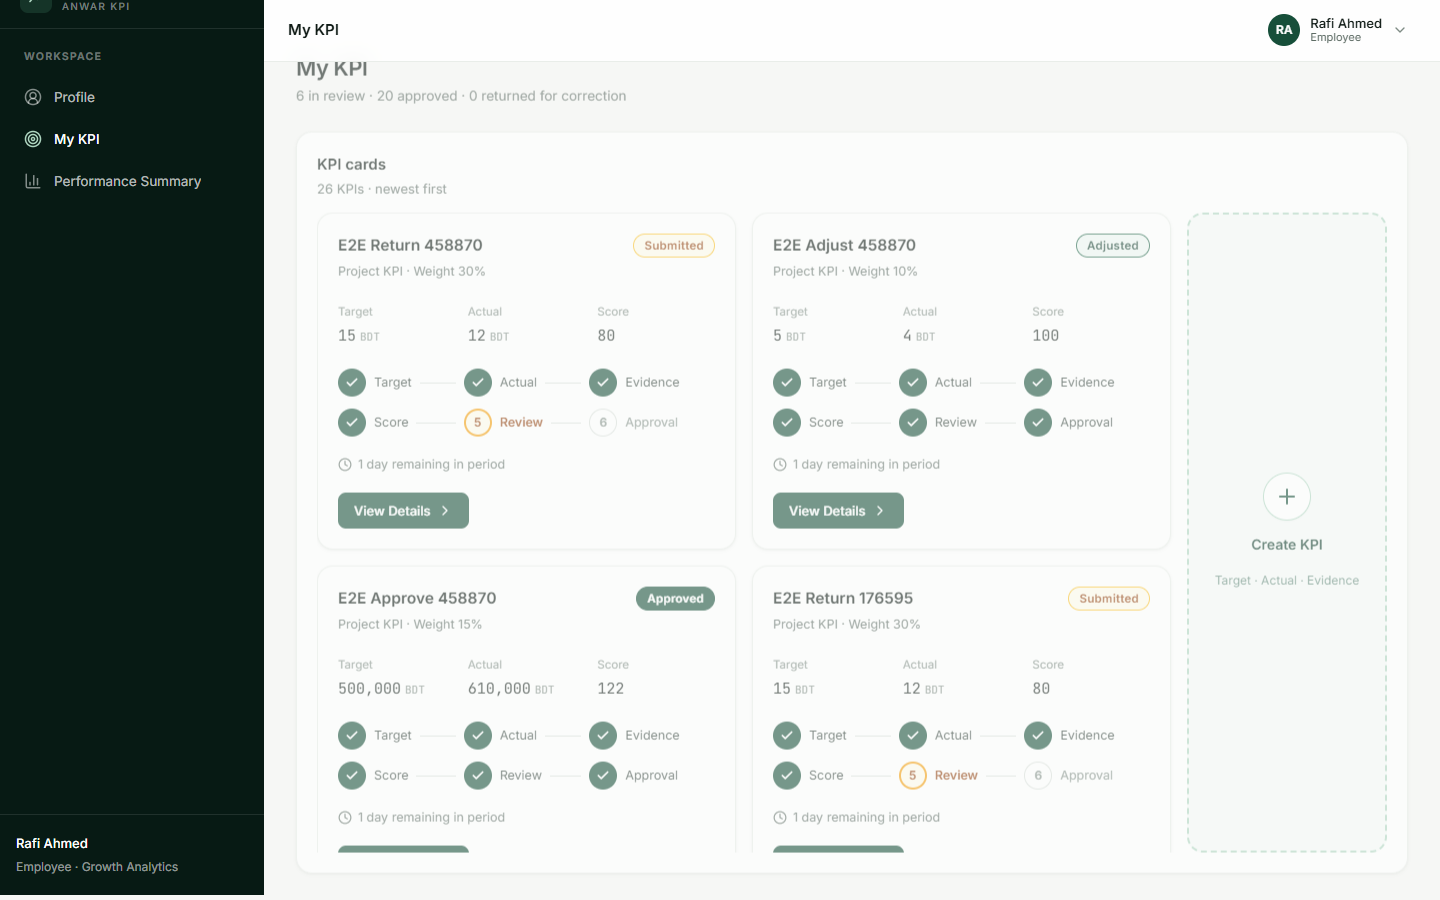
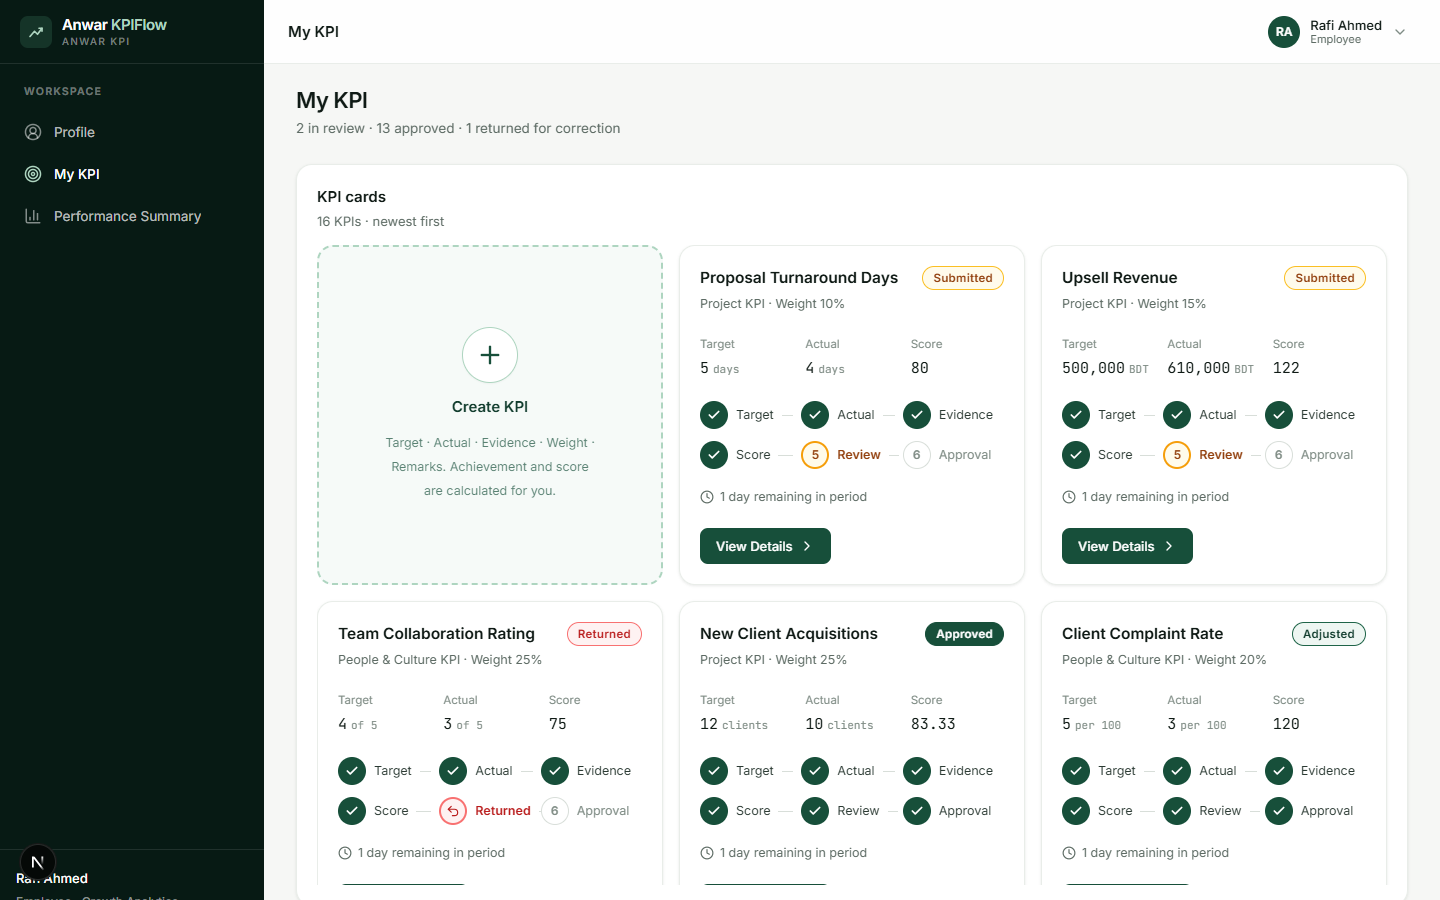
My KPI: place the Create KPI (+) tile first in the card grid with matching card dimensions

diff --git a/anwar-kpiflow/src/components/kpi/my-kpi-board.tsx b/anwar-kpiflow/src/components/kpi/my-kpi-board.tsx
@@ -1,14 +1,17 @@
 "use client";
 
 import * as React from "react";
-import { Plus, Target } from "lucide-react";
+import { Plus } from "lucide-react";
 import { KpiCard, type KpiCardData } from "./kpi-card";
 import { KpiFormDrawer } from "./kpi-form";
-import { EmptyState } from "@/components/ui/card";
 
 type Approver = { id: string; fullName: string; designation: string | null };
 
-/** FR-KPI-01/09/10/11 — parent card with the Create KPI (+) tile fixed on the right and a scrolling card grid. */
+/**
+ * FR-KPI-01/09/10/11 — one parent card holding the Create KPI (+) tile and the KPI cards.
+ * The Create tile is the first item of the same grid, so it shares the cards' width, height,
+ * gap and alignment; the list scrolls inside the parent card.
+ */
 export function MyKpiBoard({ kpis, approvers, approverLabel }: { kpis: KpiCardData[]; approvers: Approver[]; approverLabel: string }) {
   const [open, setOpen] = React.useState(false);
   return (
@@ -16,37 +19,30 @@ export function MyKpiBoard({ kpis, approvers, approverLabel }: { kpis: KpiCardDa
       <div className="flex items-center justify-between px-5 pt-5 pb-3">
         <div>
           <h2 className="text-[15px] font-semibold">KPI cards</h2>
-          <p className="text-[13px] text-ink-500">{kpis.length === 0 ? "No KPIs yet." : `${kpis.length} KPI${kpis.length === 1 ? "" : "s"} · newest first`}</p>
+          <p className="text-[13px] text-ink-500">{kpis.length === 0 ? "No KPIs yet — start with the Create KPI card." : `${kpis.length} KPI${kpis.length === 1 ? "" : "s"} · newest first`}</p>
         </div>
       </div>
       <div className="px-5 pb-5">
-        <div className="grid grid-cols-1 lg:grid-cols-[minmax(0,1fr)_200px] gap-4">
-          <div className="max-h-[calc(100vh-260px)] min-h-[380px] overflow-y-auto scroll-thin pr-1 -mr-1">
-            {kpis.length === 0 ? (
-              <EmptyState
-                icon={<Target className="h-5 w-5" />}
-                title="Create your first KPI"
-                description="Enter the target, actual, weight, evidence and remarks. Achievement and score are calculated for you."
-                action={<button onClick={() => setOpen(true)} className="inline-flex items-center gap-1.5 h-9 px-4 rounded-lg bg-brand-700 text-white text-[13px] font-medium hover:bg-brand-800"><Plus className="h-4 w-4" /> Create KPI</button>}
-              />
-            ) : (
-              <div className="grid gap-4 grid-cols-1 md:grid-cols-2 2xl:grid-cols-3 auto-rows-fr">
-                {kpis.map((k) => <KpiCard key={k.id} kpi={k} />)}
-              </div>
-            )}
+        <div className="max-h-[calc(100vh-260px)] min-h-[380px] overflow-y-auto scroll-thin pr-1 -mr-1">
+          <div className="grid gap-4 grid-cols-1 md:grid-cols-2 xl:grid-cols-3 2xl:grid-cols-4 auto-rows-fr">
+            <button
+              type="button"
+              onClick={() => setOpen(true)}
+              aria-label="Create KPI"
+              className="group h-full min-h-[340px] rounded-2xl border-2 border-dashed border-brand-200 bg-brand-50/50 hover:bg-brand-50 hover:border-brand-400 transition-colors flex flex-col items-center justify-center gap-3 p-5 text-brand-800"
+            >
+              <span className="h-14 w-14 rounded-full bg-white border border-brand-200 shadow-sm flex items-center justify-center group-hover:scale-105 transition-transform">
+                <Plus className="h-7 w-7 text-brand-700" />
+              </span>
+              <span className="text-[15px] font-semibold">Create KPI</span>
+              <span className="text-[12.5px] text-brand-700/70 text-center max-w-[220px]">
+                Target · Actual · Evidence · Weight · Remarks. Achievement and score are calculated for you.
+              </span>
+            </button>
+            {kpis.map((k) => (
+              <KpiCard key={k.id} kpi={k} />
+            ))}
           </div>
-          <button
-            type="button"
-            onClick={() => setOpen(true)}
-            className="group h-full min-h-[200px] lg:sticky lg:top-0 rounded-2xl border-2 border-dashed border-brand-200 bg-brand-50/50 hover:bg-brand-50 hover:border-brand-400 transition-colors flex flex-col items-center justify-center gap-3 text-brand-800"
-            aria-label="Create KPI"
-          >
-            <span className="h-12 w-12 rounded-full bg-white border border-brand-200 shadow-sm flex items-center justify-center group-hover:scale-105 transition-transform">
-              <Plus className="h-6 w-6 text-brand-700" />
-            </span>
-            <span className="text-[14px] font-semibold">Create KPI</span>
-            <span className="text-[12px] text-brand-700/70 px-6 text-center">Target · Actual · Evidence</span>
-          </button>
         </div>
       </div>
       <KpiFormDrawer open={open} onClose={() => setOpen(false)} approvers={approvers} approverLabel={approverLabel} />
